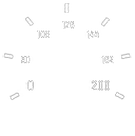
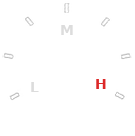
Presage: add heart rate BPM display with color-coded alert logic
- Redesigned scale_heart.png: removed numeric labels, added L/M/H
  markers aligned to tick marks at -120°, 0°, +115° with H in red
- Added heart rate sensor and live BPM text widget below the pointer hub
- BPM text color: white <100, yellow 100-129, red ≥130

diff --git a/presage/watchface/index.js b/presage/watchface/index.js
@@ -192,6 +192,32 @@ try {
         heart.addComponent("scale", normal_heart_rate_icon_img);
         heart.addComponent("pointer", normal_heart_rate_pointer_progress_img_pointer);
 
+        const heartSensor = hmSensor.createSensor(hmSensor.id.HEART);
+        const heartRateText = hmUI.createWidget(hmUI.widget.TEXT, {
+          x: 218,
+          y: 362,
+          w: 44,
+          h: 18,
+          text_size: 18,
+          color: 0xFFFFFFFF,
+          align_h: hmUI.align.CENTER_H,
+          align_v: hmUI.align.CENTER_V,
+          text_style: hmUI.text_style.ELLIPSIS,
+          text: '--',
+          show_level: hmUI.show_level.ONLY_NORMAL,
+        });
+        heart.addComponent("bpm", heartRateText);
+
+        function heart_update() {
+          const bpm = heartSensor.last;
+          heartRateText.setProperty(hmUI.prop.TEXT, bpm > 0 ? bpm.toString() : '--');
+          const color = bpm >= 130 ? 0xFF4040
+                      : bpm >= 100 ? 0xFFCC00
+                      :              0xFFFFFF;
+          heartRateText.setProperty(hmUI.prop.COLOR, color);
+        }
+        heartSensor.addEventListener(heartSensor.event.CURRENT, heart_update);
+
         normal_week__icon_img = hmUI.createWidget(hmUI.widget.IMG, {
           x: 173,
           y: 273,
@@ -546,6 +572,7 @@ try {
             update_world_clock(false);
             dayOfWeek_update();
             date_update();
+            heart_update();
 
             if (screenType == hmSetting.screen_type.WATCHFACE) {
               if (!normal_timerUpdateSecSmooth) {
